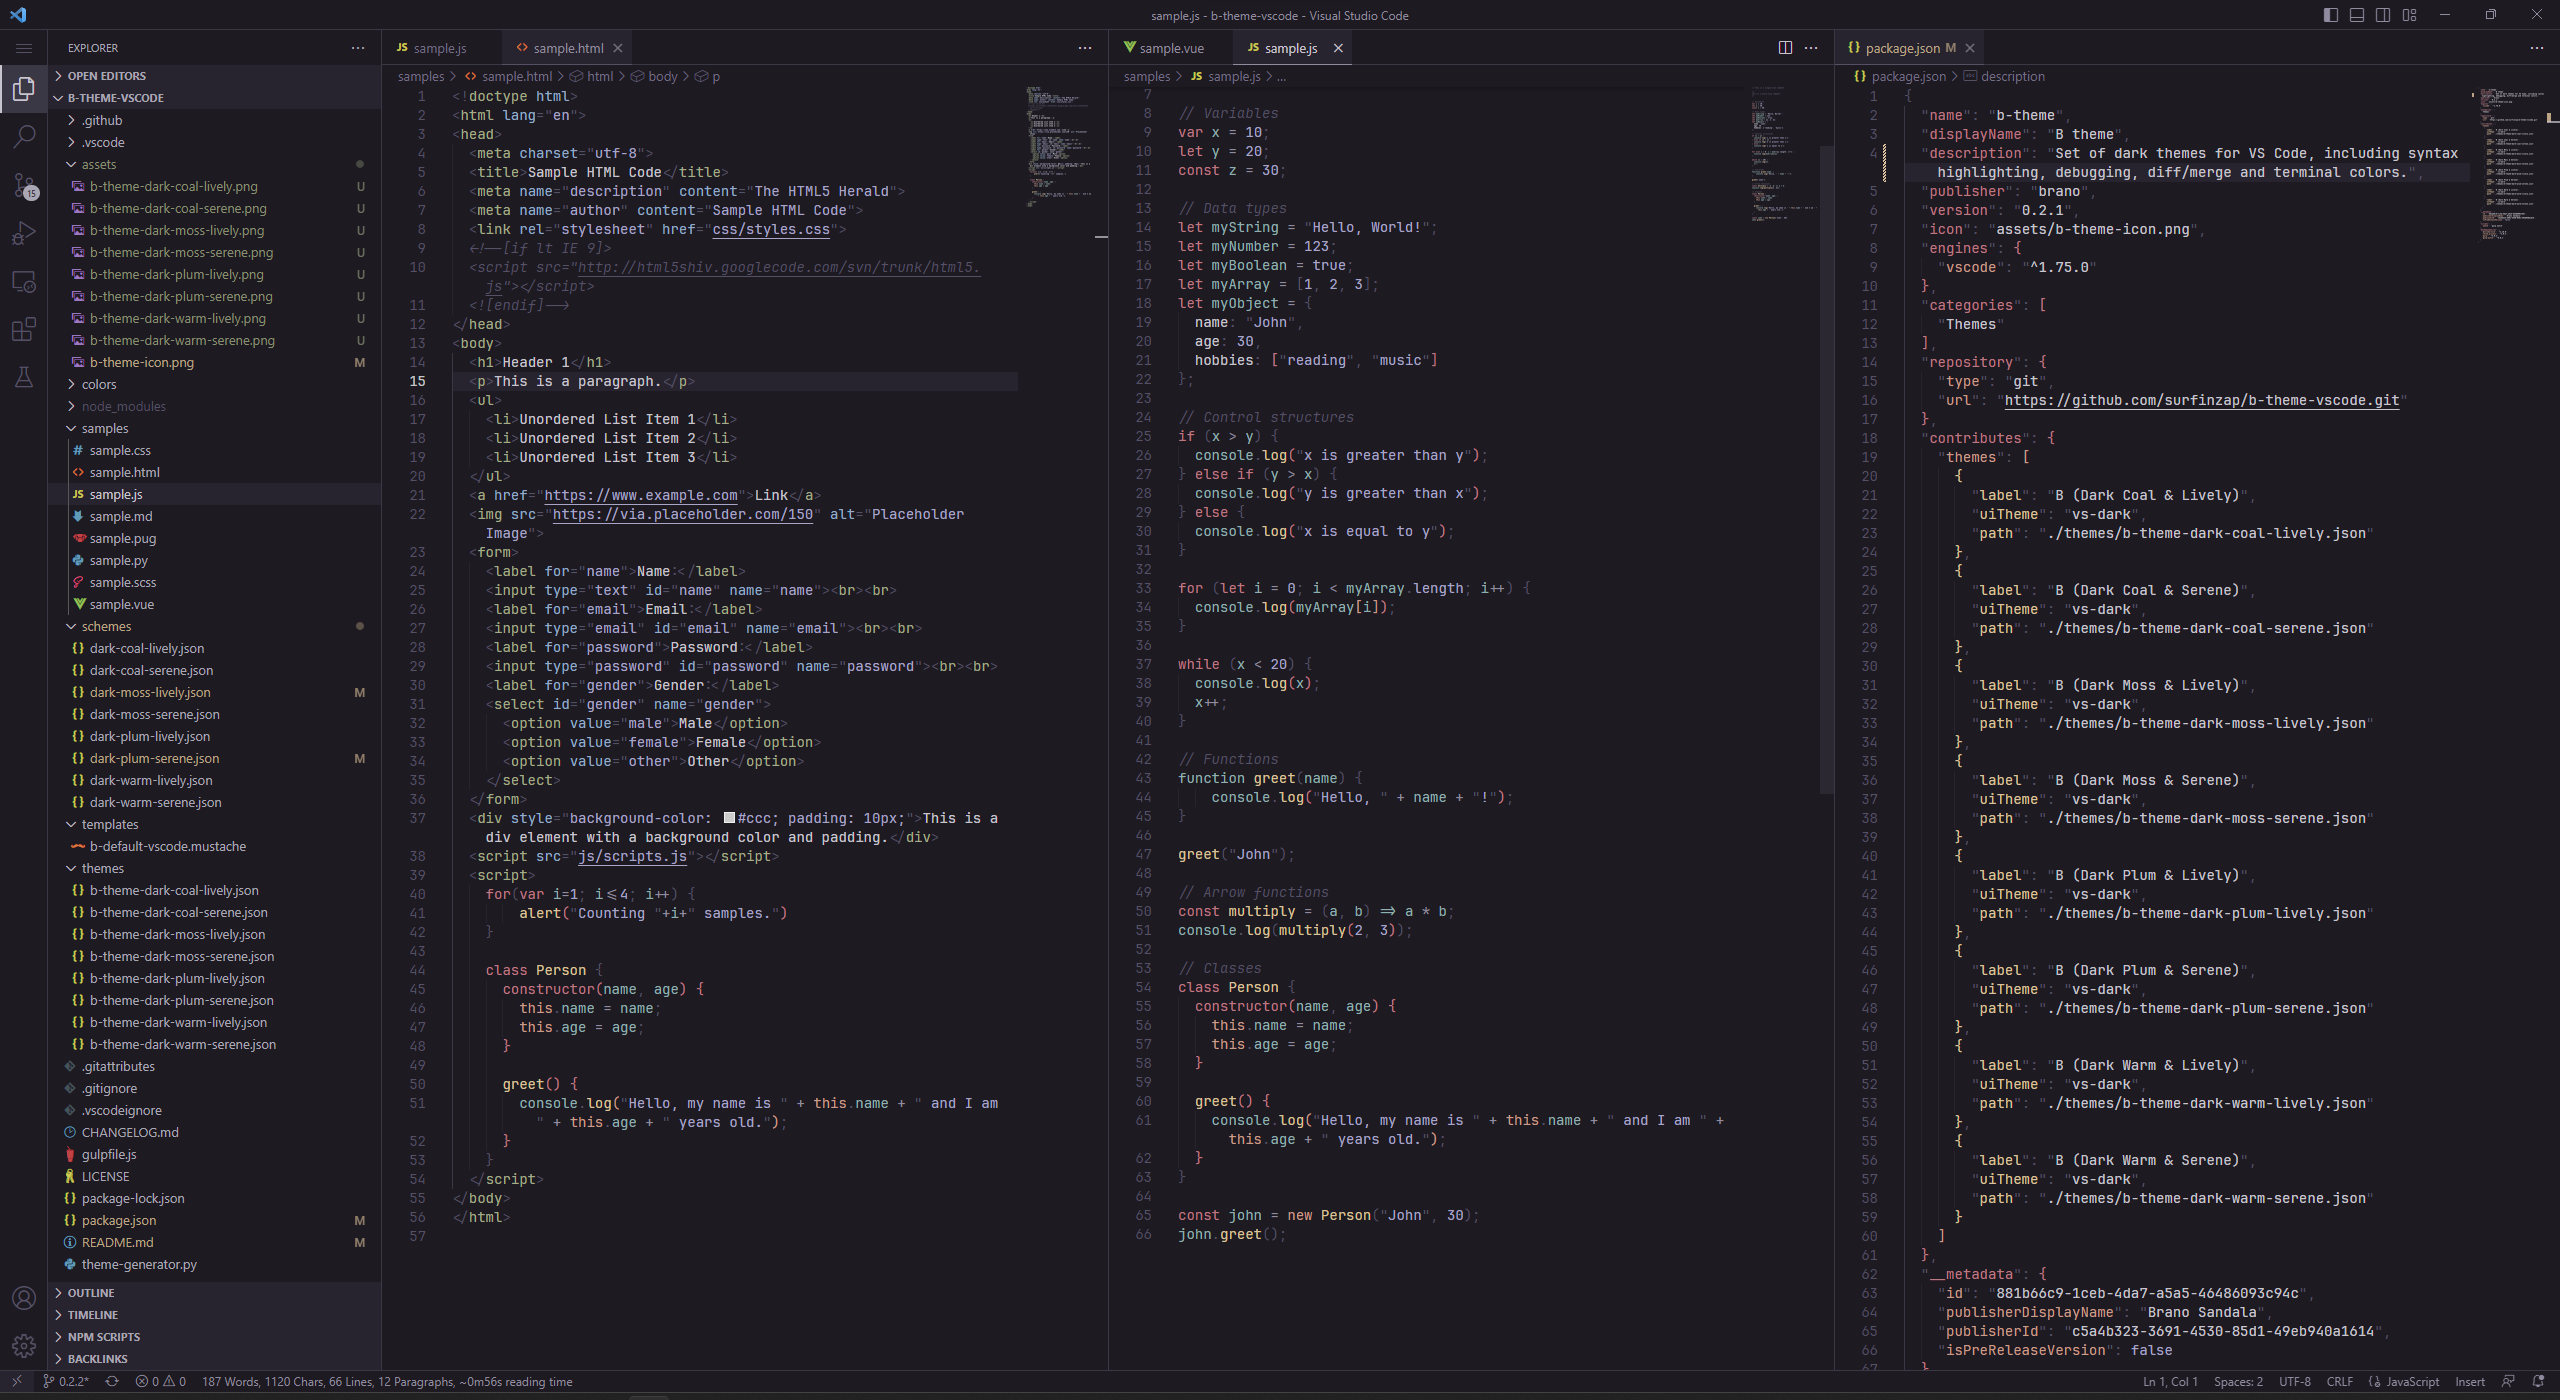
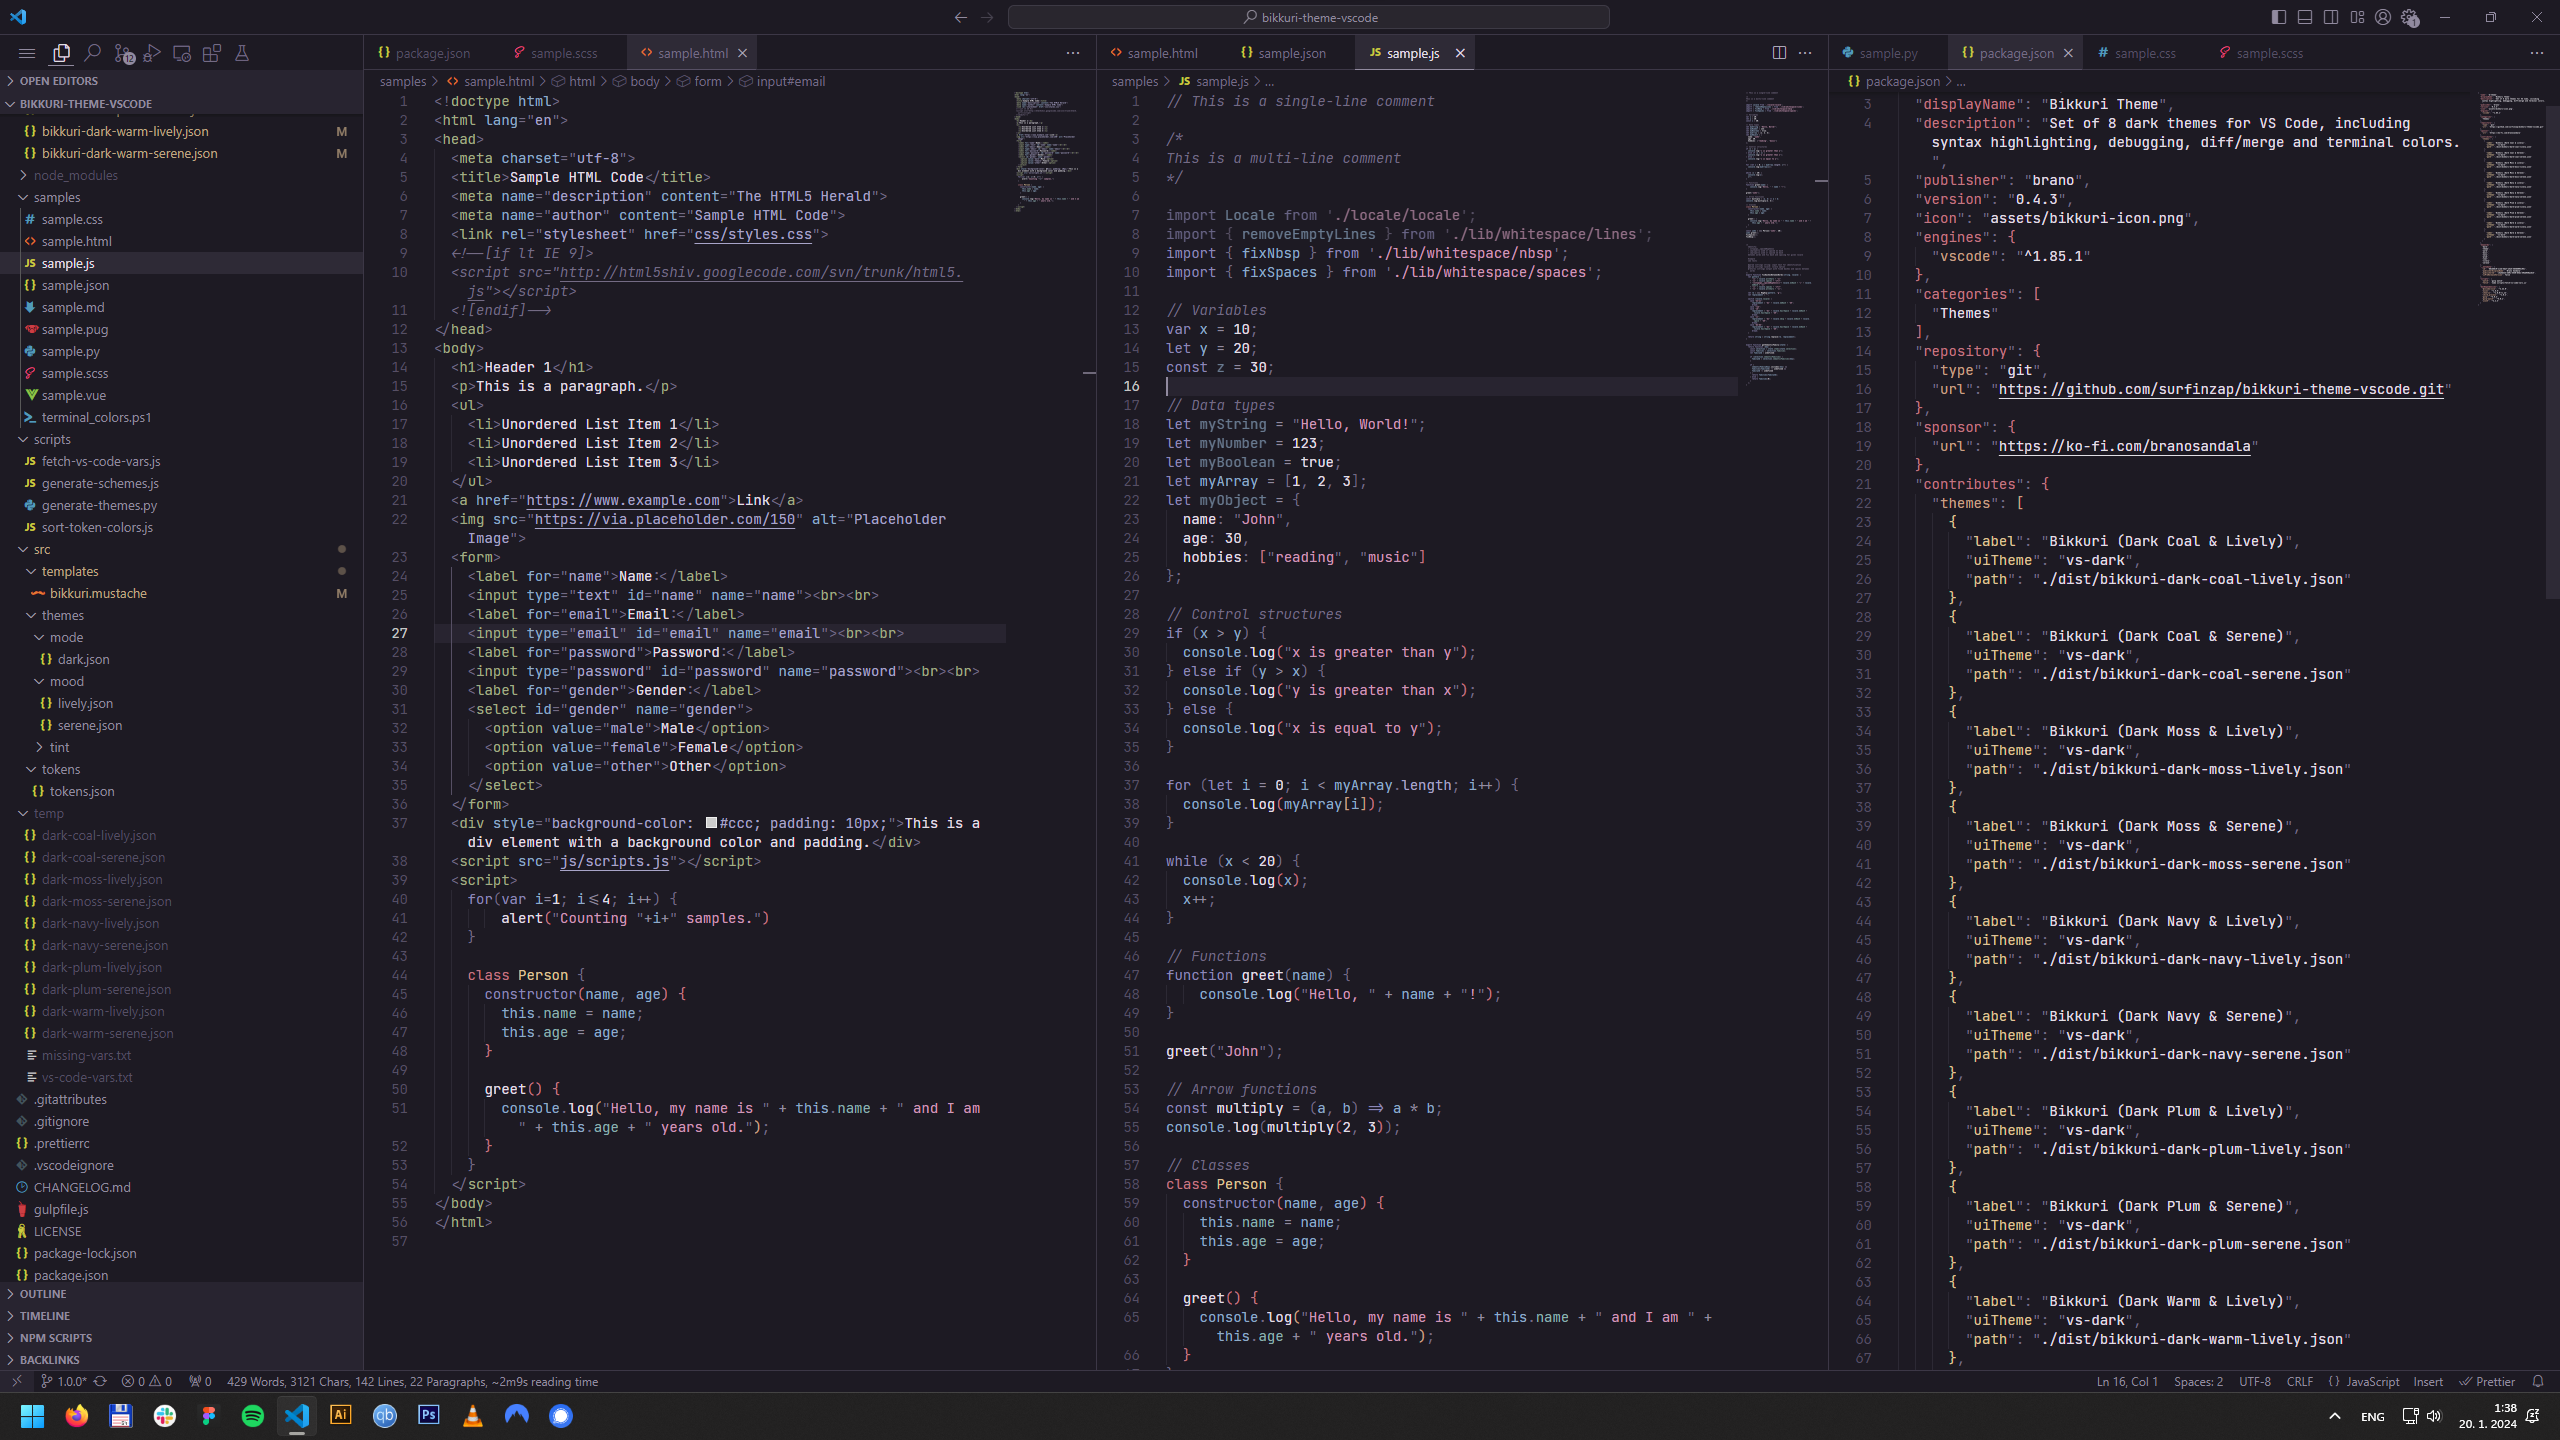
🖼 Update screenshots

diff --git a/README.md b/README.md
@@ -10,7 +10,7 @@
 </h1>
 
 
-<p align="center">Set of 8 dark themes for VS Code, including syntax highlighting, debugging, diff/merge and terminal colors.</p>
+<p align="center">Set of 10 dark themes for VS Code, including syntax highlighting, debugging, diff/merge and terminal colors.</p>
 
 
 ## Variants
@@ -20,6 +20,12 @@
 
 ### Dark Warm & Serene
 ![Dark Warm & Serene](assets/bikkuri-dark-warm-serene.png)
+
+### Dark Navy & Lively
+![Dark Navy & Lively](assets/bikkuri-dark-navy-lively.png)
+
+### Dark Navy & Serene
+![Dark Navy & Serene](assets/bikkuri-dark-navy-serene.png)
 
 ### Dark Plum & Lively
 ![Dark Plum & Lively](assets/bikkuri-dark-plum-lively.png)
@@ -51,12 +57,12 @@
 2. Search for `Bikkuri Theme`
 3. Click **Install** to install it
 4. Click **Reload** to reload the Visual Studio Code
-5. Open `Preferences: Color Theme` from the command palette and select the preferred flavor of the **B** Theme
+5. Open `Preferences: Color Theme` from the command palette and select the preferred flavor of the **Bikkuri** Theme
 
 
 ## Feedback
 
-Share your feedback as a [GitHub issue](https://github.com/surfinzap/b-theme-vscode/issues).
+Share your feedback as a [GitHub issue](https://github.com/surfinzap/bikkuri-theme-vscode/issues).
 
 
 ## Support 
@@ -65,6 +71,6 @@ Share your feedback as a [GitHub issue](https://github.com/surfinzap/b-theme-vsc
 
 
 ## Inspiration / Recommendations
+
 - colors for the theme were designed with [Colorca](https://colorca.org)
 - the theme plays nicely with [JetBrains Mono](https://github.com/JetBrains/JetBrainsMono) font
-- syntax highlighting rules inspiration: [vscode-theme-gruvbox](https://github.com/jdinhify/vscode-theme-gruvbox)
